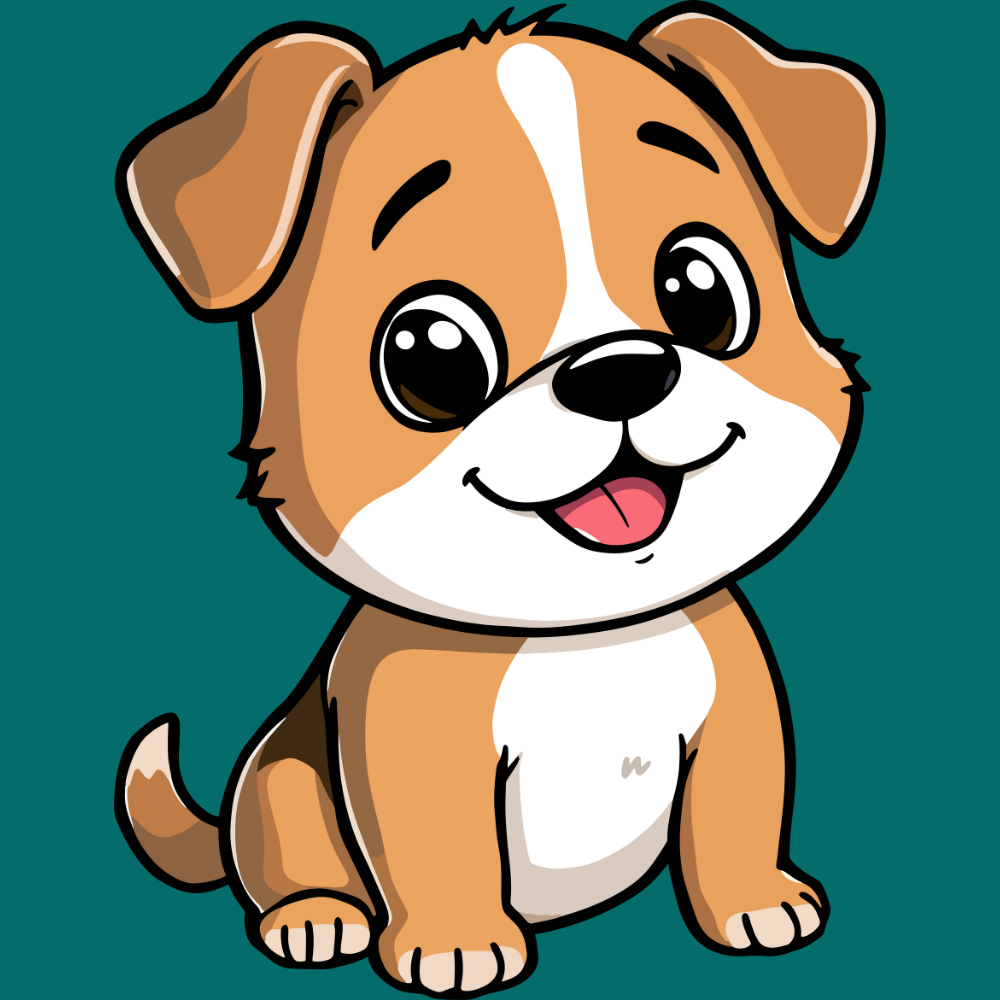
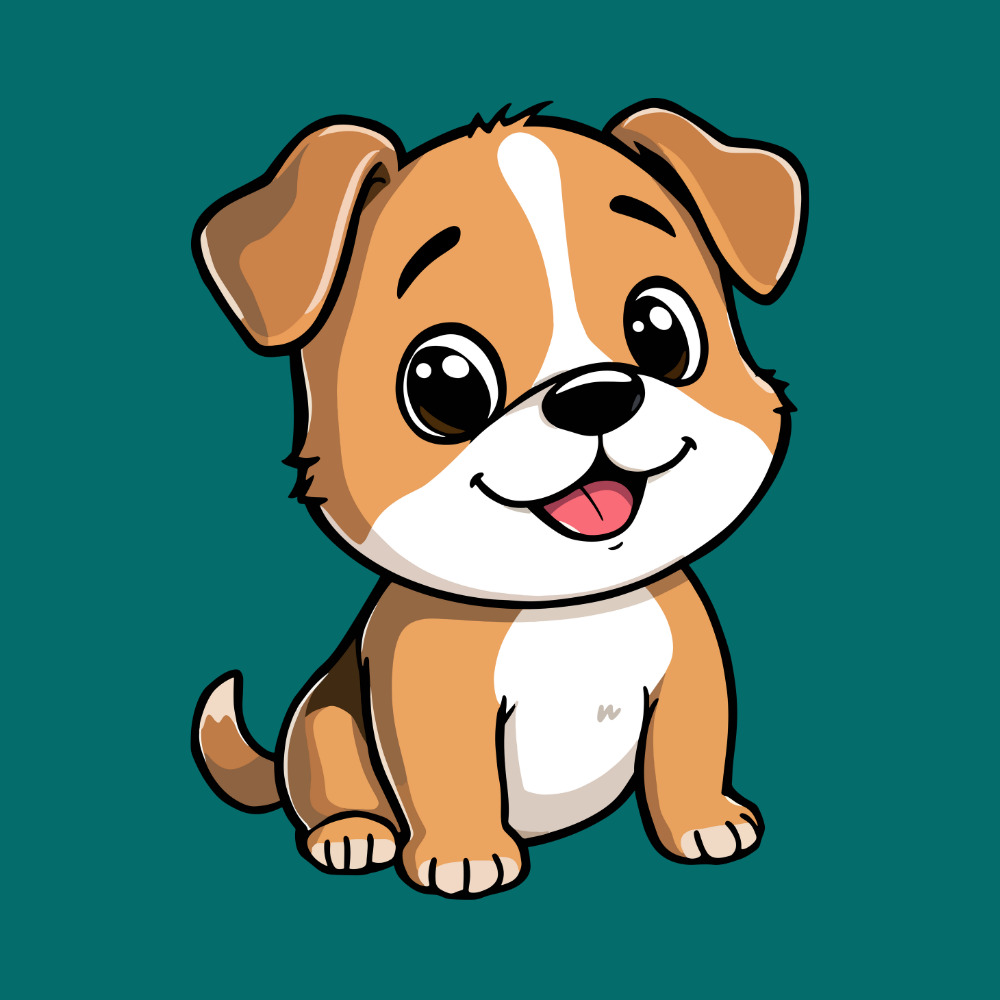
criação da pg sobre a clinica

diff --git a/sobre.html b/sobre.html
@@ -1,0 +1,97 @@
+<!DOCTYPE html>
+<html lang="en">
+<head>
+    <meta charset="UTF-8">
+    <meta http-equiv="X-UA-Compatible" content="IE=edge">
+    <meta name="viewport" content="width=device-width, initial-scale=1.0">
+    <title></title>
+    <link rel="stylesheet" href="base.css">
+</head>
+<body>
+    <div class="wrapper">
+        <div class="menu">
+            <font color="white">
+                <h2> Informações</h2>
+            </font>
+            <ul>
+                <li><a href="index.html">Início</a></li>
+                <li><a href="sobre.html">A Clínica</a></li>
+                <li><a href="funcionamento.html">Funcionamento</a></li>
+                <li><a href="contato.html">Contato</a></li>
+            </ul>
+        </div>
+
+        <div class="main">
+            <div class="header">
+                    <img src="logo.png" alt="Logo da Clínica Veterinária Vida Animal" width="150">
+                    <h1>
+                        <font face="Tahoma" color="white" size="5">
+                            Clínica Veterinária Vida Animal
+                        </font>    
+                    </h1>                               
+                    <img src="dog.png" alt="Desenho de um cachorrinho" width="150">
+                    <img src="cat.png" alt="Desenho de um gatinho" width="150">
+                
+            </div>
+    
+            <div class="content">
+    <p><img src="./sobre/4.jpg" align="right" width="280">
+    Na <strong>Clínica Veterinária Vida Animal,</strong> cuidamos de quem você ama como se fosse da nossa própria família. Oferecemos atendimento de excelência para cães, gatos e pequenos animais, garantindo saúde, bem-estar e qualidade de vida para cada paciente.
+    </p>
+    <p>Contamos com uma equipe de veterinários <u>experientes e apaixonados</u> pelo que fazem, além de uma estrutura <u>moderna</u> equipada com tecnologia de ponta para exames, cirurgias e tratamentos especializados. Aqui, cada consulta é <u><b>personalizada</b></u>, e cada cuidado é feito com carinho, atenção e dedicação.
+    </p>
+    <p> Além disso, acreditamos que a <b>prevenção</b> é o melhor caminho para uma vida longa e saudável. Por isso, orientamos cada tutor sobre vacinação, alimentação, higiene e comportamento, acompanhando de perto <strong>todas as fases</strong> da vida do seu pet — do filhote ao idoso — com o mesmo <u>cuidado e comprometimento.</u>
+    </p>
+    <p>A Vida Animal não é apenas uma clínica, é um espaço onde o cuidado vai além da medicina: é sobre confiança, respeito e amor pelos animais. Seu pet <b>merece o melhor,</b> e nós estamos aqui para garantir isso todos os dias. 
+    </p> 
+    <div>
+        <img src="./sobre/8.jpg" align="left" width="210">
+        <h3><span>🌿</span> Missão</h3>
+        <p>  Oferecer atendimento veterinário de excelência, com amor, respeito e responsabilidade, garantindo a saúde, o bem-estar e a qualidade de vida dos animais de estimação e a tranquilidade de seus tutores.
+        </p>
+        <h3><span>🌟</span> Visão</h3>
+        <p>  Ser referência em cuidados veterinários na região, reconhecida pela confiança, acolhimento e inovação nos serviços prestados, tornando-se o primeiro nome que vem à mente quando se pensa em cuidado e amor pelos animais.
+        </p>
+        <h3><span>💚</span> Valores</h3>
+            <ul>
+                <img src="./sobre/7.jpg" align="right" width="250">
+                <li><b>Amor pelos animais:</b> base de tudo o que fazemos.</li>
+                <li><b>Ética e respeito:</b> com pacientes, tutores e equipe.</li>
+                <li><b>Profissionalismo:</b> atendimento responsável e comprometido.</li>
+                <li><b>Inovação:</b> uso de tecnologia e boas práticas para aprimorar cada serviço.</li>
+                <li><b>Empatia:</b> compreender e atender cada pet como único.</li>
+                <li><b>Transparência:</b> comunicação clara e honesta com os tutores.</li>
+                <li><b>Responsabilidade ambiental:</b> compromisso com práticas sustentáveis e respeito à natureza.</li>
+                <li><b>Trabalho em equipe:</b> união e colaboração entre profissionais para garantir o melhor resultado.</li>
+                <li><b>Dedicação contínua:</b> busca constante por aprendizado e aperfeiçoamento.</li>
+                <li><b>Acolhimento:</b> ambiente seguro e tranquilo para pets e tutores.</li>
+                <li><b>Confiança:</b> base de todas as relações que construímos com nossos clientes e parceiros.</li>
+            </ul>
+ </div>
+            </div>
+    
+            <div class="footer">
+                <p>
+                    <font color="white" size="3">
+                        <span>📍</span><b>Endereço:</b> Rua das Flores, 125 - Centro, Orlando, FL
+                    </font>
+                </p>
+                <p>
+                    <font color="white" size="3">
+                        <span>📞 </span><b>Telefone:</b> (407) 123-4567
+                        <span>📱 </span><b>WhatsApp:</b> (407) 123-6547
+                    </font>
+                </p>
+                <p>
+                    <font color="white" size="3">
+                        <span>📧 </span><b>E-mail:</b> contato@vidaanimal.com
+                    </font>
+                </p>
+                <font color="white"><p>© 2025 Clínica Vida Animal. Todos os direitos reservados.</p></font>
+
+
+            </div>
+        </div>
+    </div>
+</body>
+</html>

diff --git a/index.html b/index.html
@@ -23,7 +23,7 @@
 
         <div class="main">
             <div class="header">
-                    <img src="logo.png" alt="Logo da Clínica Veterinária Vida Animal - Desenho de um gatinho" width="150">
+                    <img src="logo.png" alt="Logo da Clínica Veterinária Vida Animal" width="150">
                     <h1>
                         <font face="Tahoma" color="white" size="5">
                             Clínica Veterinária Vida Animal

diff --git a/base.css b/base.css
@@ -37,6 +37,9 @@ h1{
     min-height: 300px;
     padding: 20px;
 }
+.content img {
+    margin: 0 15px;
+}
 .footer {
     background-color: rgb(5, 108, 108);
     min-height: 150px;
